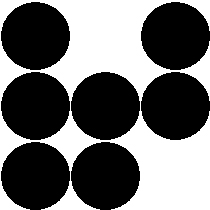
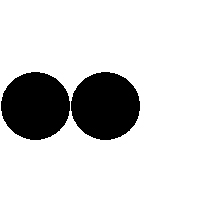
Add: Dithering (semitonos)

diff --git a/scripts/Clases/Convolution.js b/scripts/Clases/Convolution.js
@@ -32,18 +32,35 @@ class Convolution {
     return suma;
   }
 
-  _applyMatrix(matrix, alfa, beta) {
+  /**
+   * Aplica la matriz de convolución a un pixel
+   * @param {Array} matrix matriz de convolución
+   * @param {number} alfa coordenada x
+   * @param {number} beta coordenada y
+   * @param {boolean} isMax nos indica si es convolución 
+   * normal o filtro maxMin
+   * @returns el valor del pixel
+   */
+  _applyMatrix(matrix, alfa, beta, isMax) {
     let valor = [0, 0, 0]; // [0] - r, [1] - g, [2] - b
+    let val = [];
     var length = matrix.length;
     for (var i = 0; i < length; i ++)
       for (var j = 0; j < length; j++) {
         var x = (alfa + i - Math.trunc(length/2));
         var y = (beta + j - Math.trunc(length/2));
         var site = this.filtro.width * x + y;
-        valor[0] += this.filtro.red[site] * matrix[i][j];
-        valor[1] += this.filtro.green[site] * matrix[i][j];
-        valor[2] += this.filtro.blue[site] * matrix[i][j];
+        if(isMax == 3){
+          valor[0] += this.filtro.red[site] * matrix[i][j];
+          valor[1] += this.filtro.green[site] * matrix[i][j];
+          valor[2] += this.filtro.blue[site] * matrix[i][j];
+        } else 
+          val.push(this.filtro.red[site]);
       }
+    if(isMax != 3){
+      val[0] = isMax? Math.max.apply(null,val): Math.min.apply(null, val);
+      valor[1] = valor[2] = valor[0] = val[0];
+    }
     return valor;
   }
 
@@ -52,14 +69,14 @@ class Convolution {
     * @param {Array} matrix - Matriz de convolución 
     * @param {number} biaas - Brillo de la imagen
   */
-  doConvolution(matrix, bias = 0){
-    let factor = this._getFactor(matrix);
+  doConvolution(matrix, bias = 0, isMax = 3){
+    let factor = isMax == 3? this._getFactor(matrix): 1;
 
     for (var i = 0; i < this.filtro.nPixels; i ++){
       //Calculamos alto y ancho (ubicación del pixel)
       var h = Math.trunc(i / this.filtro.height);
       var w = i % this.filtro.height;
-      var valor =  this._applyMatrix(matrix, w, h); //aplicamos la matriz
+      var valor =  this._applyMatrix(matrix, w, h, isMax); //aplicamos la matriz
       //Asignamos los nuevos valores
       this.filtro.red[w * this.filtro.width + h] = this.filtro._validarRango(factor * valor[0] + bias);
       this.filtro.green[w * this.filtro.width + h] = this.filtro._validarRango(factor * valor[1] + bias);
@@ -68,36 +85,4 @@ class Convolution {
     this.filtro._setFromRGB(this.filtro.red, this.filtro.green, this.filtro.blue);
     this.filtro._updateImageData();
   }
-
-  /**
-   * Permite incrementar los puntos negros o minimizarlos
-   * Recorre cada pixel, coloca una matriz y toma el mayor o el menor
-   * @param {number} radio[0] - Ancho del cuadrado
-   * @param {number} radio[1] - Alto del cuadrado 
-   * @param {boolean} isMax
-   */
-   doMaxMin(radio, isMax){
-    let val = [];
-    let site, maxMin;
-  
-    for (var alfa = 0; alfa < this.filtro.height; alfa ++)
-      for (var beta = 0; beta < this.filtro.width; beta ++) {
-        //Matriz 
-        for (var i = 0; i < radio[1]; i ++)
-          for (var j = 0; j < radio[0]; j++) {
-              site = this.filtro.width * (alfa + j) + beta + i;
-              site = site > this.filtro.nPixels? this.filtro.nPixels - 1: site;
-              //tomamos sólo el valor rojo porque al estar en escala de grises los demás son iguales
-              val.push(this.filtro.red[site]);
-          }
-          //Obtnemos el mínimo o el máximo 
-          maxMin = isMax? Math.max.apply(Math, val): Math.min.apply(Math,val);
-          this.filtro.red[site] = maxMin;
-          this.filtro.green[site] = maxMin;
-          this.filtro.blue[site] = maxMin;
-          val = [];
-    }
-    this.filtro._setFromRGB(this.filtro.red, this.filtro.green, this.filtro.blue);
-  }
-
 }

diff --git a/scripts/Clases/Semitones.js b/scripts/Clases/Semitones.js
@@ -24,7 +24,8 @@ class Semitones {
    */
   _getValue(prom, numImages){
     let gris = Math.round((prom[0] + prom[1] + prom[2])/ 3);
-    return gris % numImages;
+    //return gris % numImages;
+    return Math.round((gris/255)*(numImages-1));
   }
 
   /**
@@ -61,15 +62,15 @@ class Semitones {
    */
   doSemitonos(radio, images){
     //limpiamos el canvas
-    console.log("algo");
     this.canvasContext.clearRect(0,0,canvas.width,canvas.height);
        
-    for (var alfa = 0; alfa < this.height; alfa += radio[1])
-      for (var beta = 0; beta < this.width; beta += radio[0]) {
-        var prom = this._avarage(radio, alfa, beta);
-        var value = this._getValue(prom, num);
+    for (var alfa = 0; alfa < this.filtro.height; alfa += radio[1])
+      for (var beta = 0; beta < this.filtro.width; beta += radio[0]) {
+        var prom = this.filtro._avarage(radio, alfa, beta);
+        var value = this._getValue(prom, images.length);
         this.canvasContext.drawImage(images[value], beta, alfa, radio[0], radio[1]);
       }
+    this.filtro._updateImageData();
   }
 
   /**

diff --git a/scripts/Practicas/Practica07.js b/scripts/Practicas/Practica07.js
@@ -9,6 +9,6 @@
       let filtro = maxMin.children[0].checked;
       f.doPerPixel((r,g,b)=> { let v = (r + g + b) / 3; //Pasamos a escala de grises
         return [v, v, v];})
-      fConvolution.doMaxMin(radio, filtro);
+      fConvolution.doConvolution(Array(radio[0]), 0, filtro);
     }
   };
